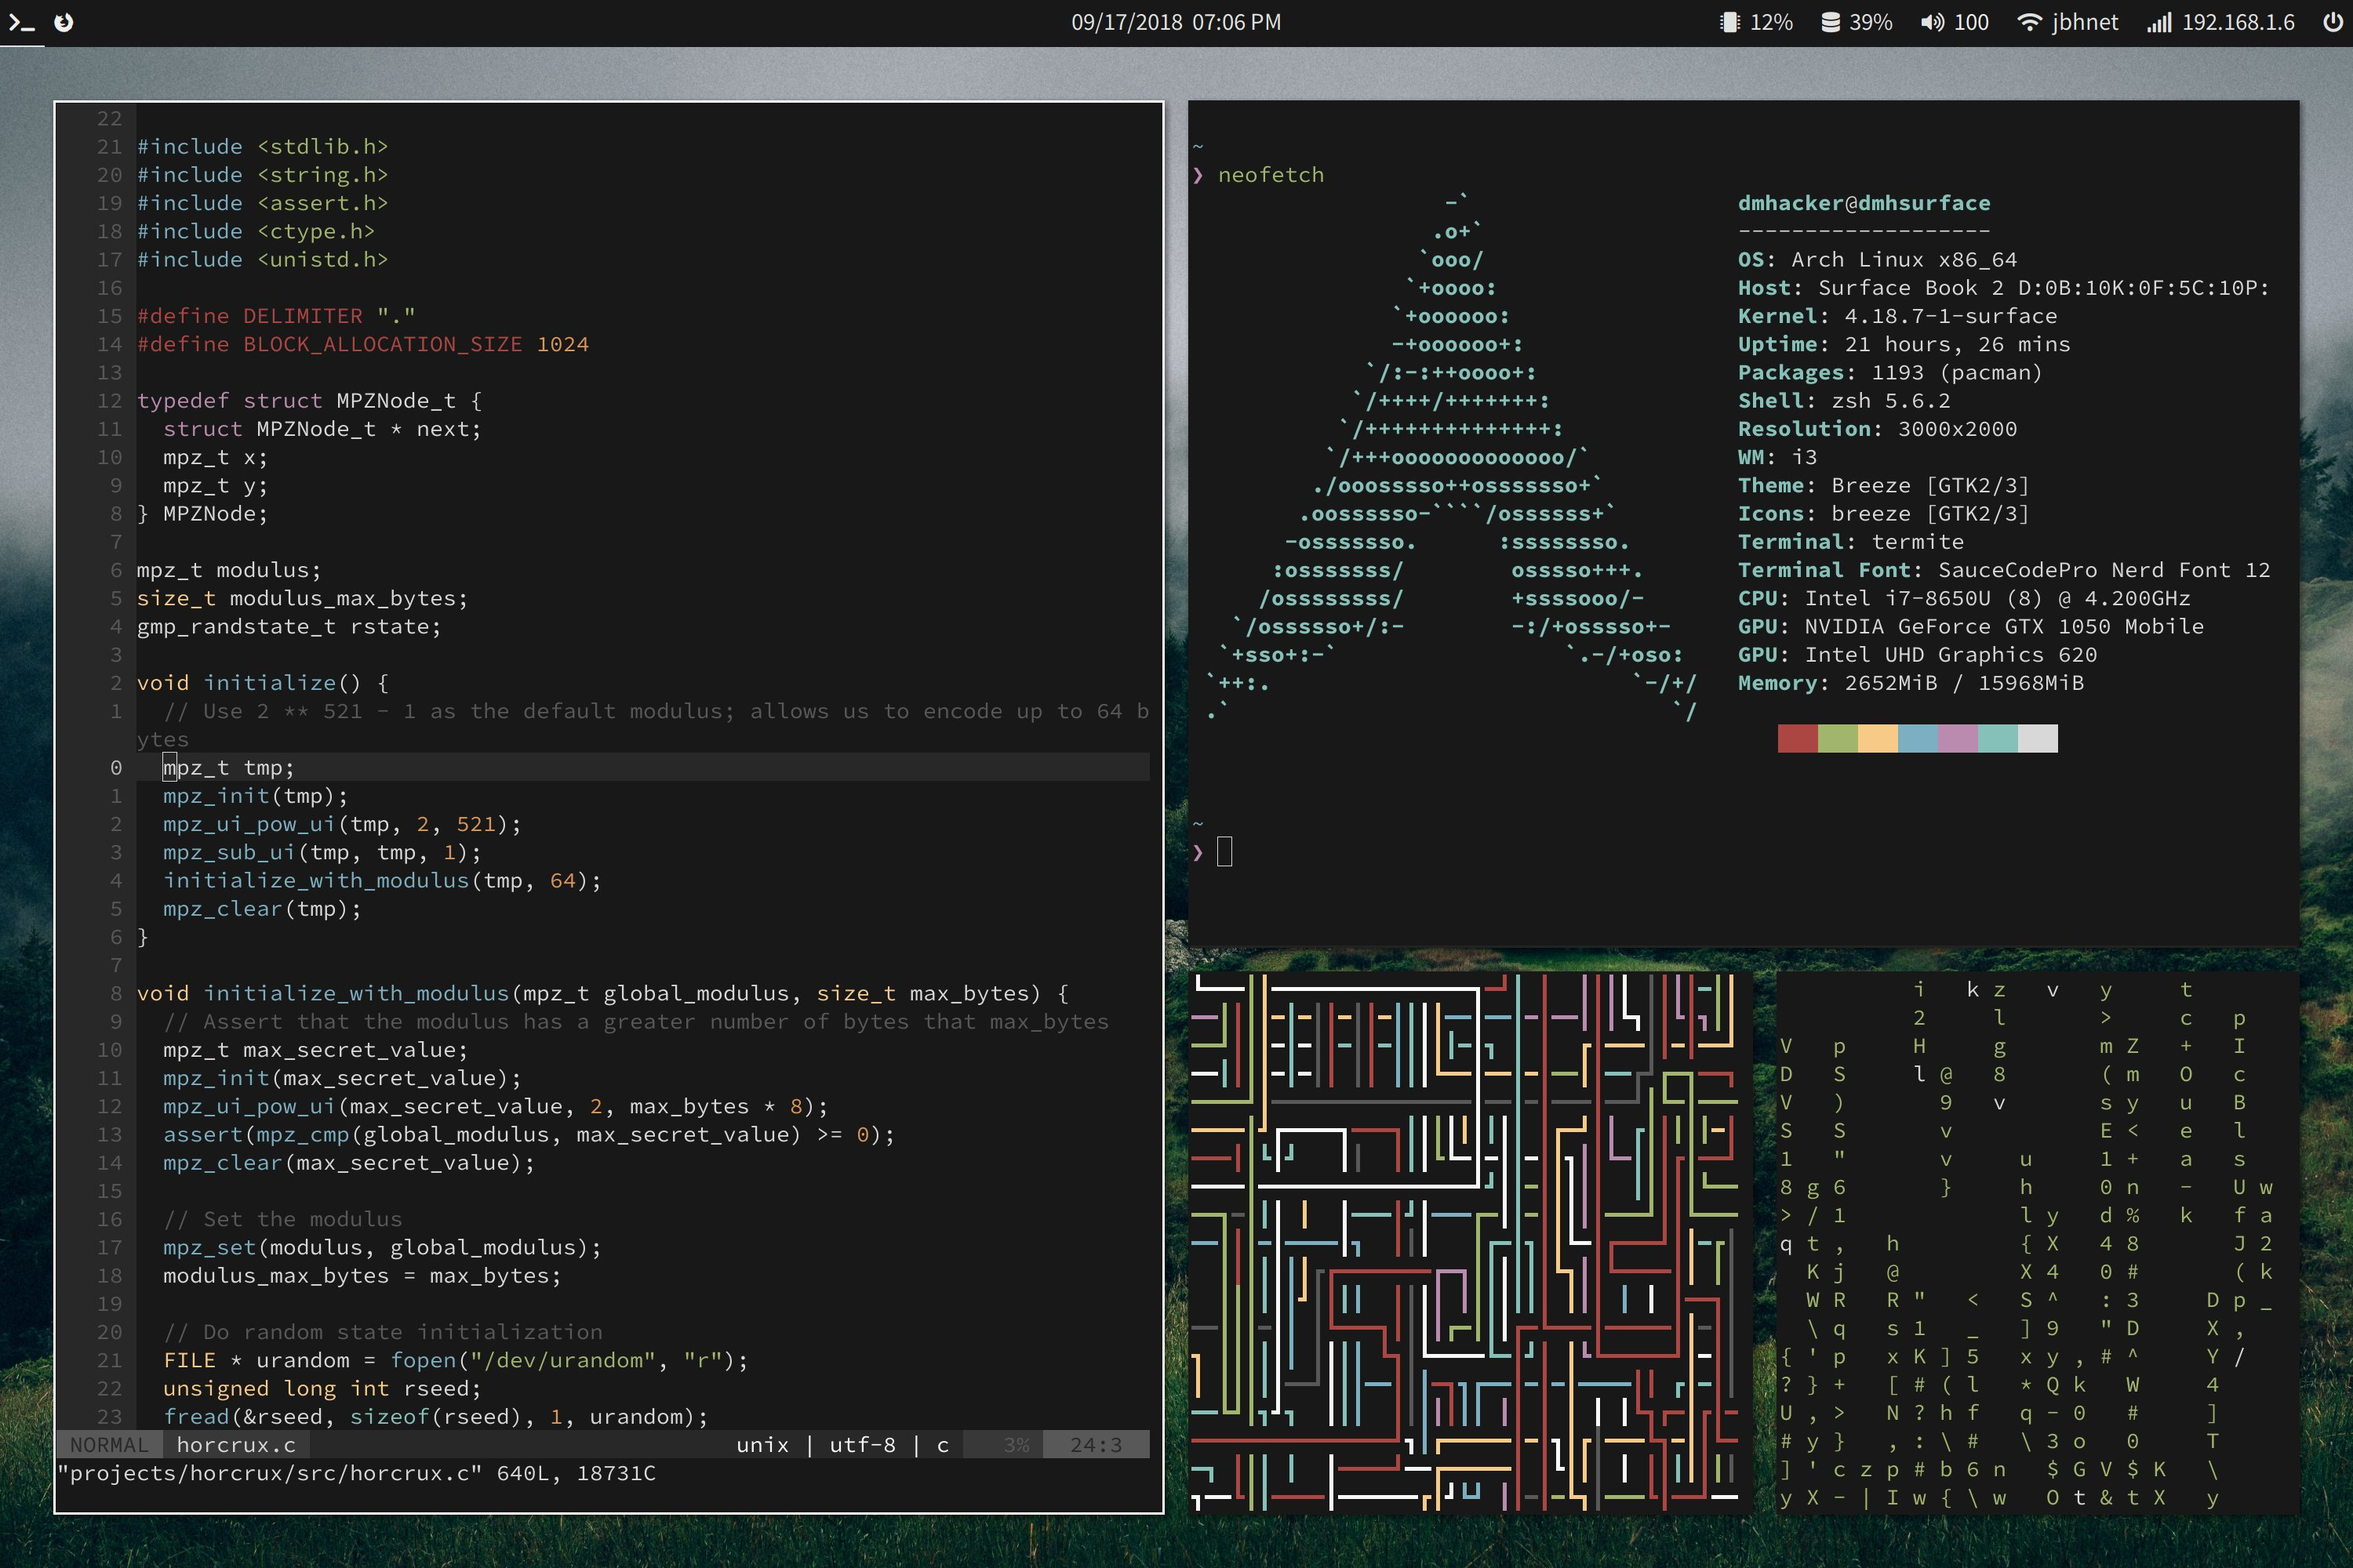
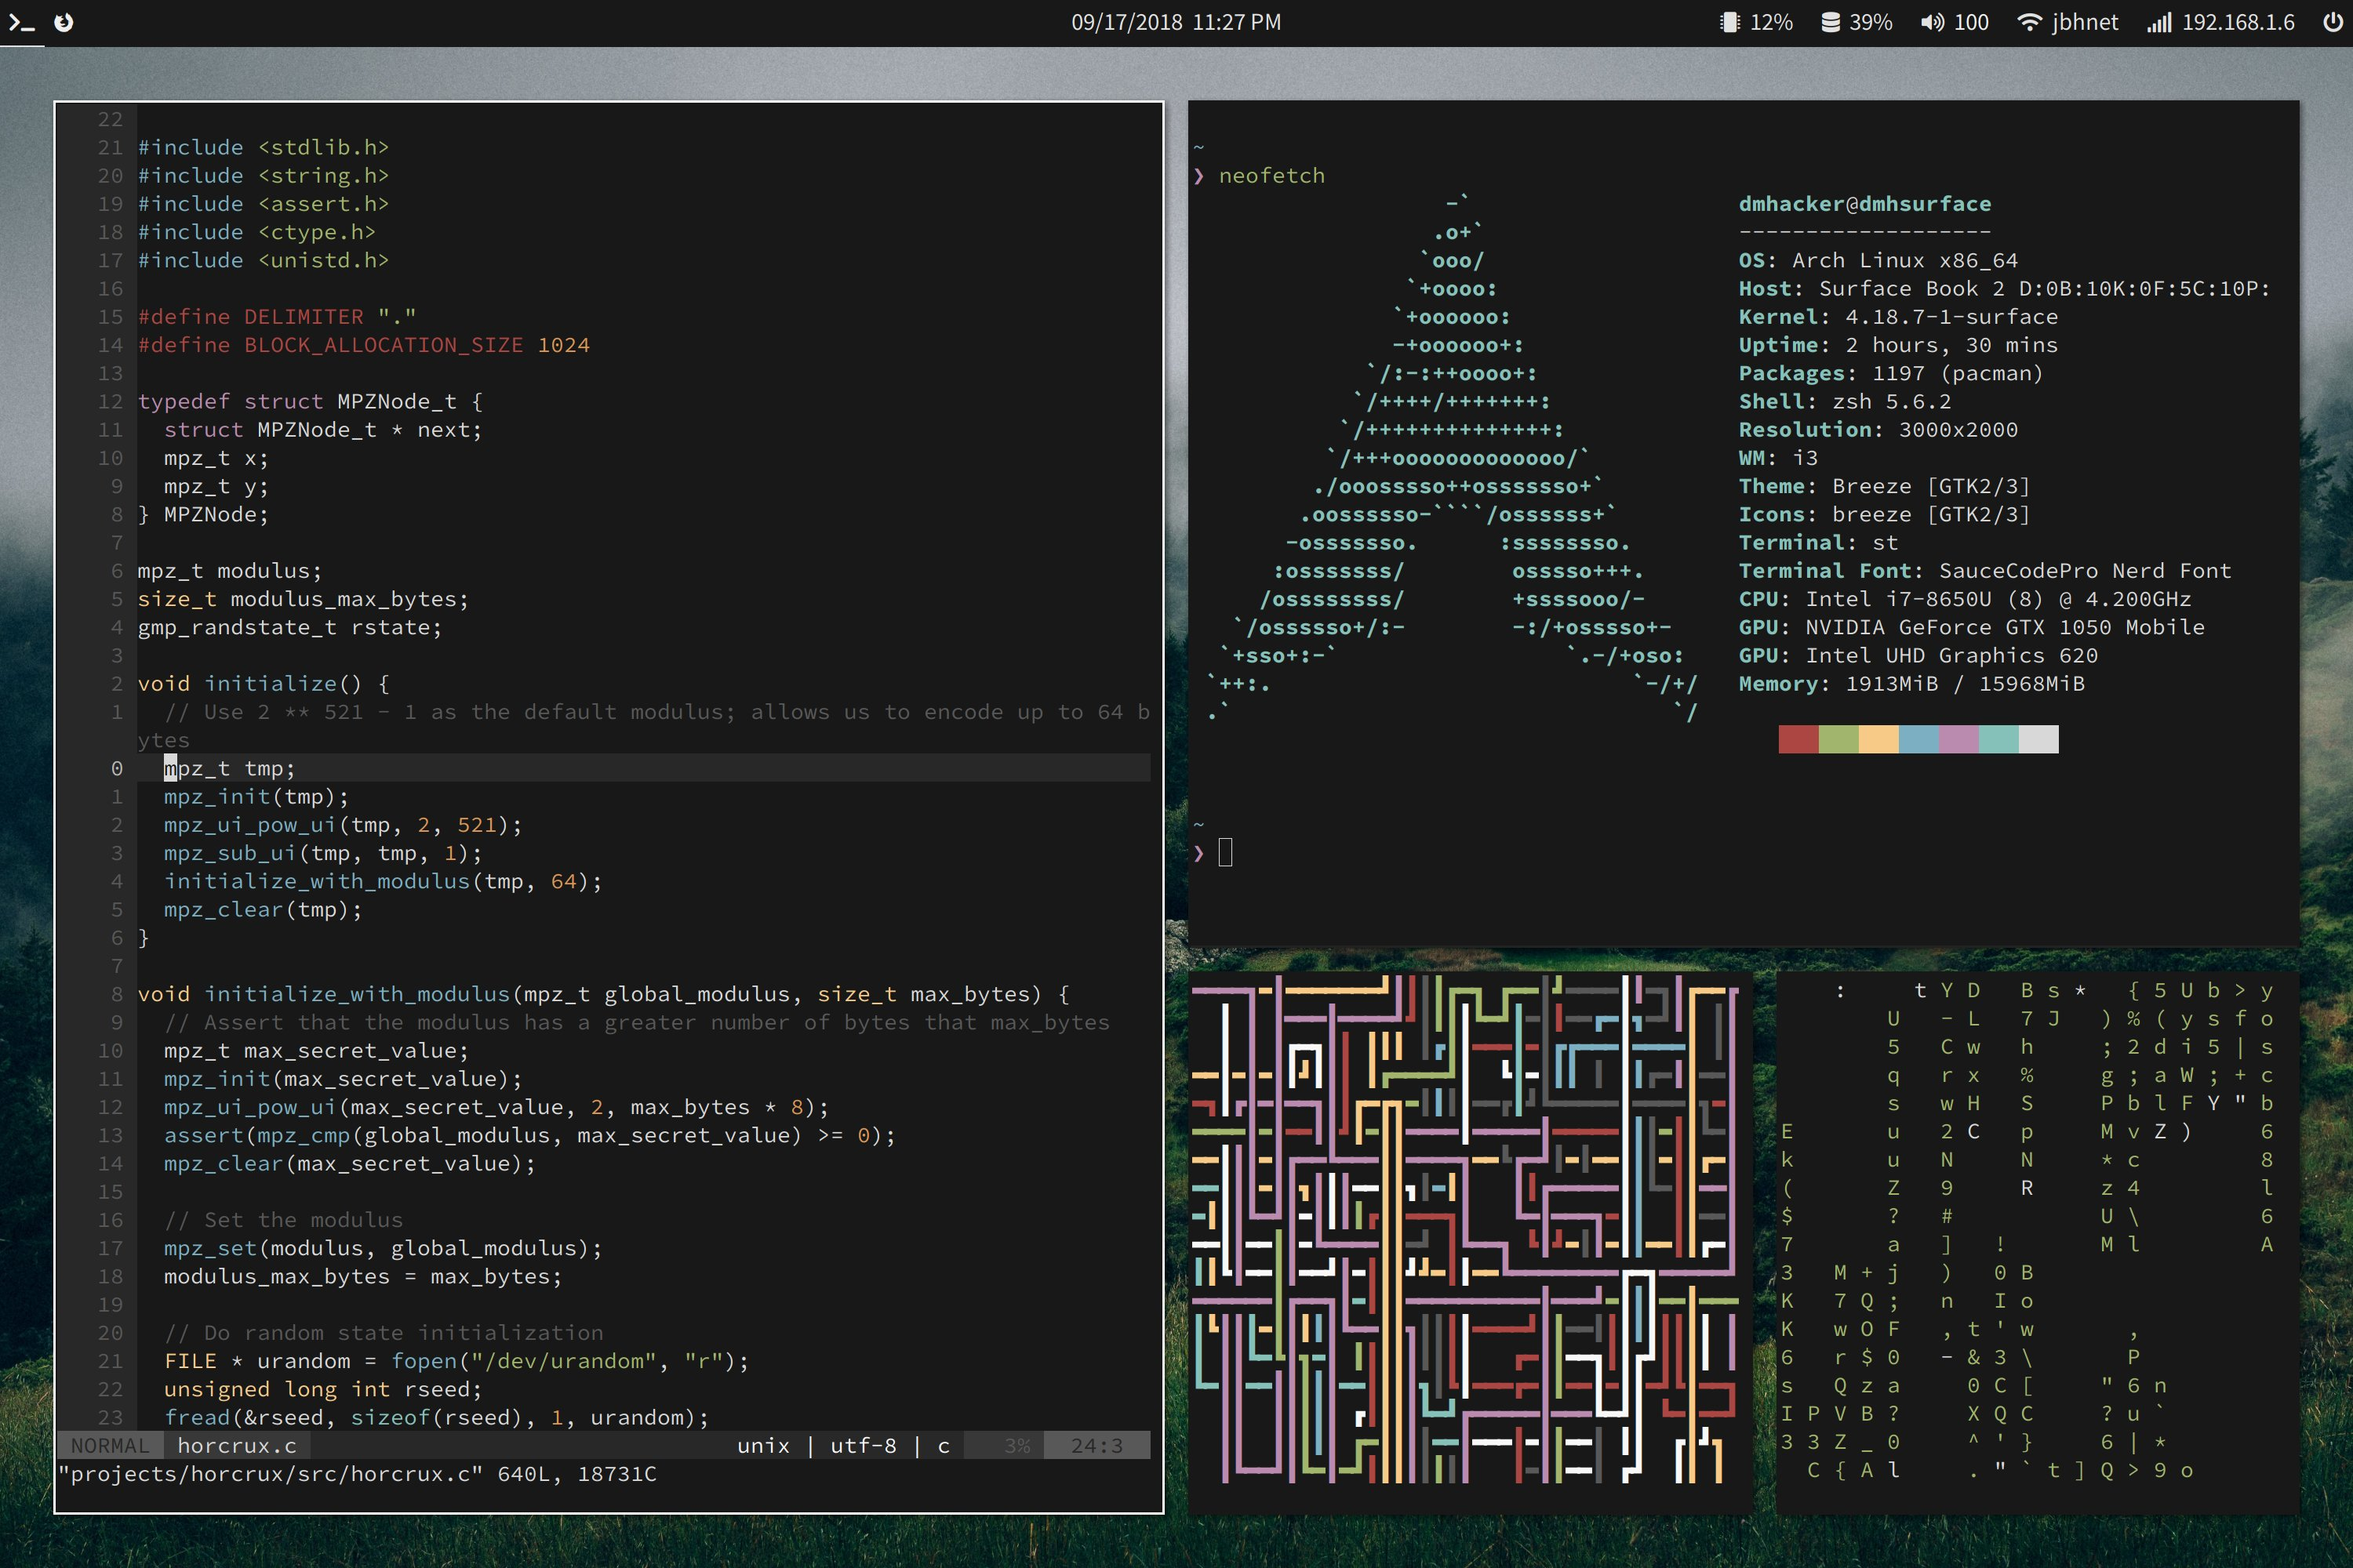
Remove git repository in st subdirectory

diff --git a/README.md b/README.md
@@ -7,19 +7,19 @@
 ## Dependencies
 
 * [i3-gaps](https://github.com/Airblader/i3) <sub>window manager</sub>
+* [st](https://st.suckless.org/) <sub>terminal emulator</sub>
+* [xfce4-terminal](https://git.xfce.org/apps/xfce4-terminal/) <sub>terminal emulator for my RPI 3</sub>
 * [glitchlock](https://github.com/xero/glitchlock/) <sub>i3 locking mechanism</sub>
 * [polybar](https://github.com/jaagr/polybar) <sub>improved status bar</sub>
 * [compton](https://github.com/chjj/compton) <sub>window compositor</sub>
 * [rofi](https://github.com/DaveDavenport/rofi) <sub>replacement for dmenu</sub>
 * [ranger](https://github.com/ranger/ranger) <sub>file manager with vim bindings</sub>
 * [redshift](https://github.com/jonls/redshift) <sub>flux for Arch Linux</sub>
-* [termite](https://github.com/thestinger/termite/) <sub>terminal emulator</sub>
-* [xfce4-terminal](https://git.xfce.org/apps/xfce4-terminal/) <sub>terminal emulator for my RPI 3</sub>
-* [powerline-shell](https://github.com/b-ryan/powerline-shell) <sub>fancy terminal prompt</sub>
 * [nerd-fonts-complete](https://github.com/ryanoasis/nerd-fonts) <sub>patched fonts for powerline</sub>
 * [vundle](https://github.com/VundleVim/Vundle.vim) <sub>vim package manager</sub>
 * [shadowfox-updater](https://github.com/overdodactyl/ShadowFox) <sub>completely dark UI for Firefox</sub>
 * [antibody](https://github.com/getantibody/antibody) <sub>plugin manager for zsh</sub>
+* [pure](https://github.com/sindresorhus/pure) <sub>minimal, fast zsh prompt</sub>
 
 ## Credits
 
